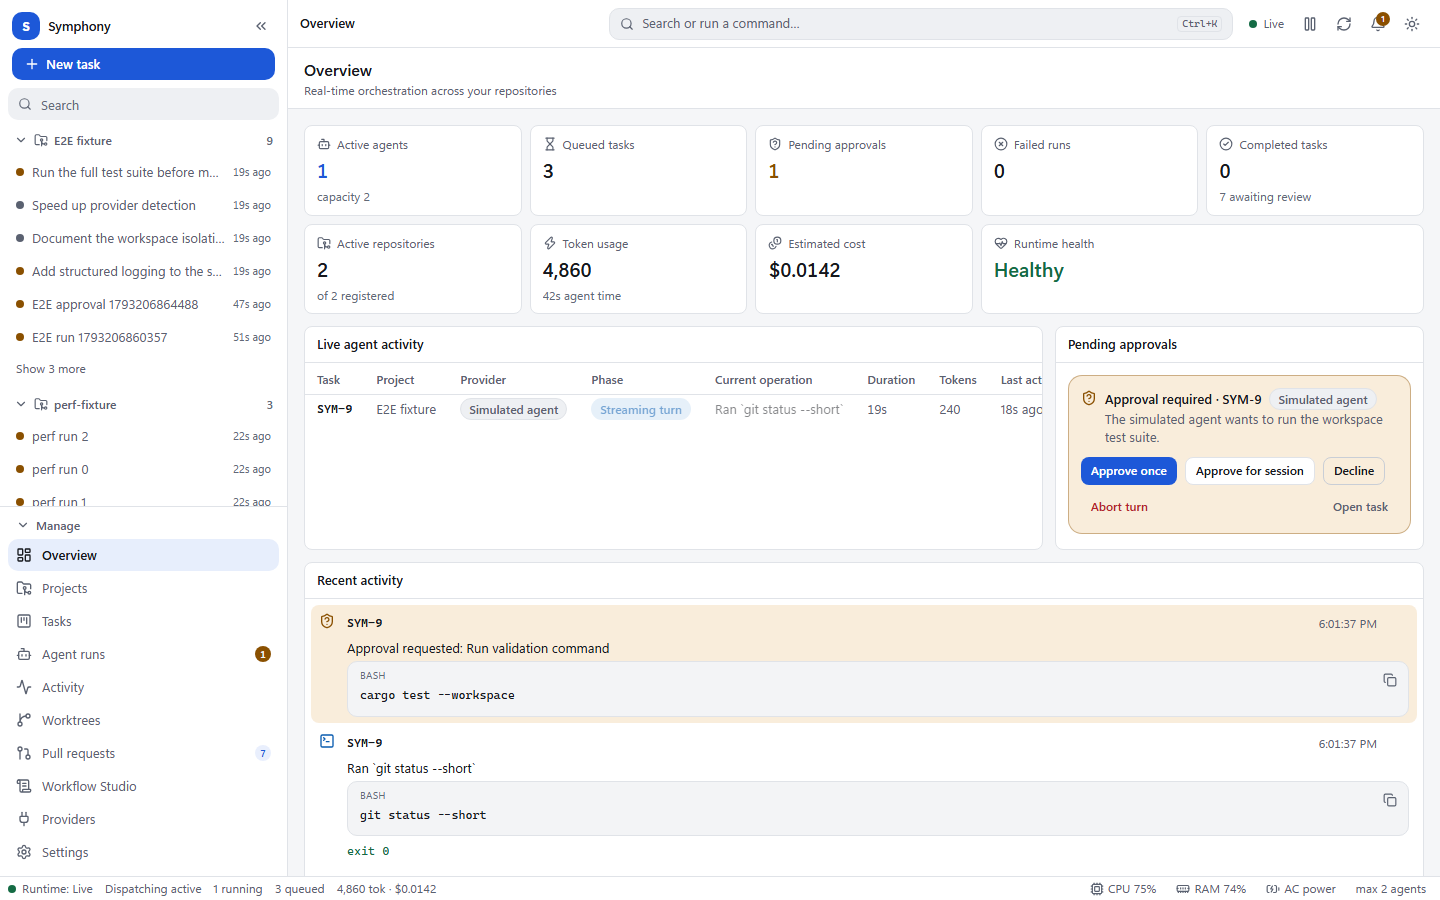
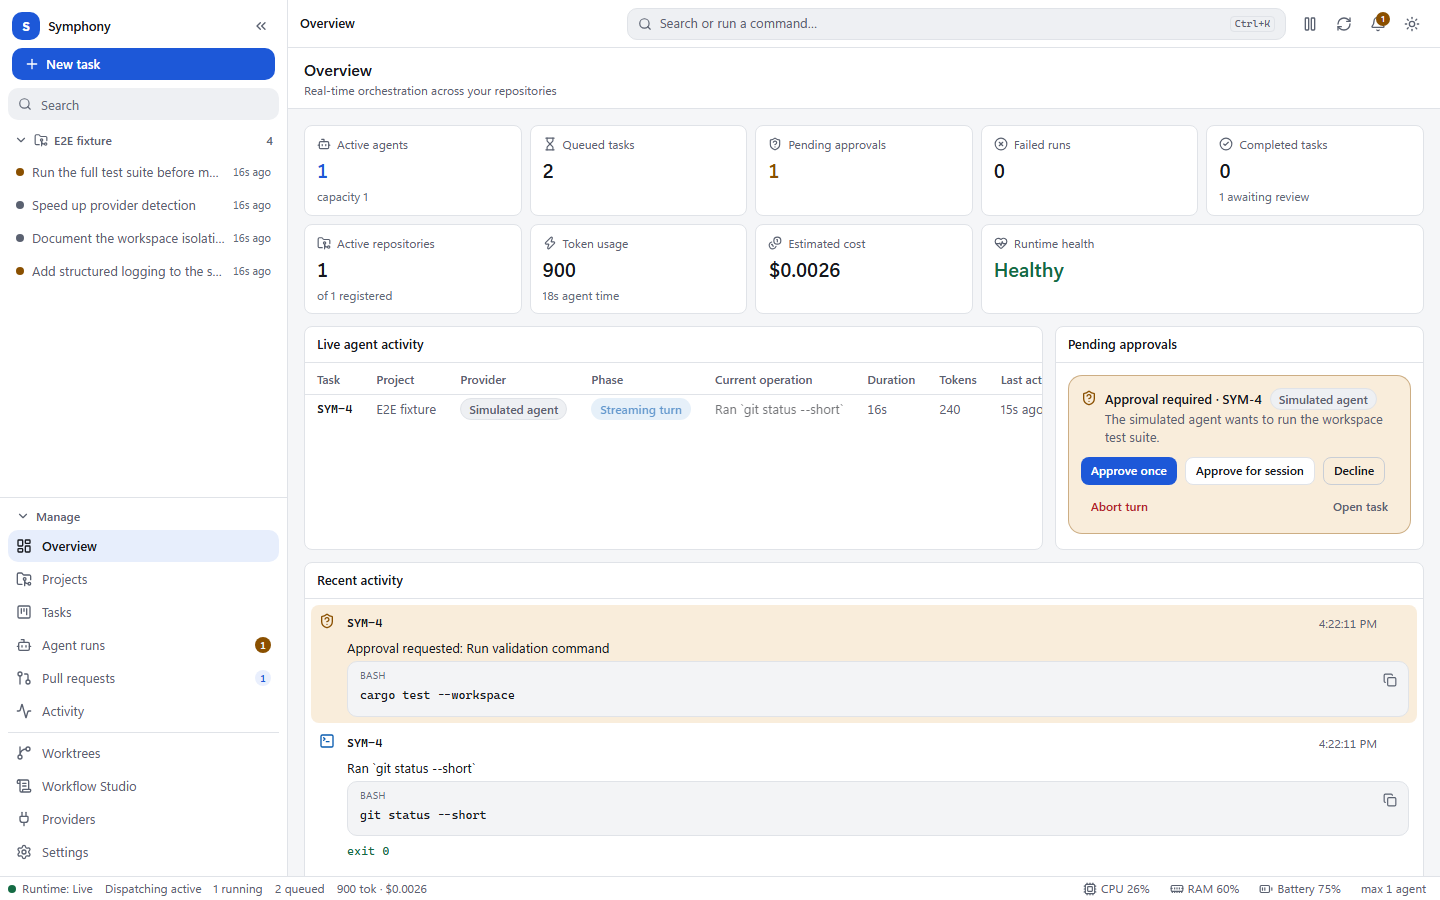
Refresh the documentation screenshots and keep threads visible at small sizes
Regenerate docs/screenshots from the real UI so they show the grouped
sidebar and the simplified shell. The taller view list left the thread
list only two entries at the 960x640 minimum window, so its height is
now capped to leave room for threads.

diff --git a/apps/desktop/src/layouts/Sidebar.tsx b/apps/desktop/src/layouts/Sidebar.tsx
@@ -132,7 +132,7 @@ export const Sidebar: React.FC = () => {
               <ChevronDown className={cn("size-3.5 transition-transform", !manageOpen && "-rotate-90")} aria-hidden />
               {w.sidebar.manage}
             </button>
-            {manageOpen ? <div className="max-h-[56vh] overflow-y-auto">{items}</div> : null}
+            {manageOpen ? <div className="max-h-[min(56vh,calc(100vh_-_24rem))] overflow-y-auto">{items}</div> : null}
           </div>
         </>
       )}
